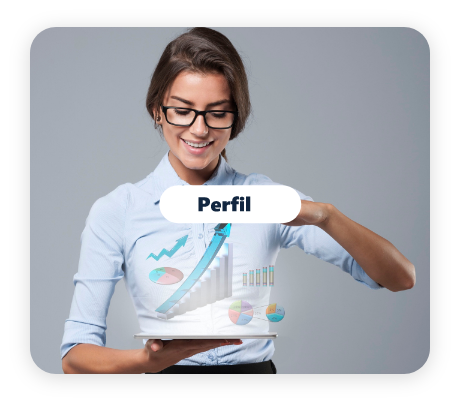
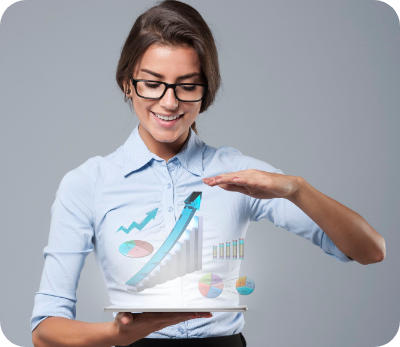
Act_04_07_2025

diff --git a/src/views/Tema3.vue b/src/views/Tema3.vue
@@ -83,7 +83,7 @@
     .row.fondo3.p-4.p-lg-5.p-md-4.mb-0(data-aos="fade-down")
       .col-lg-12
     
-        .row.justify-content-center.align-items-center.mb-4(data-aos="fade-left")
+        .row.justify-content-center.align-items-center.mb-0(data-aos="fade-left")
           .col-lg-3.col-md-5.col-8.mb-4
             img.d-none.d-lg-block(src='@/assets/curso/tema3/5.png', alt='')
           .col-lg-9.mb-0
@@ -104,30 +104,33 @@
                 .col-lg-12
                   p.mb-0 El fracaso no se concibe como un obstáculo definitivo, sino como una fuente de aprendizaje. El emprendedor resiliente analiza sus errores, identifica oportunidades de mejora y desarrolla estrategias de ajuste para futuros intentos, asumiendo una actitud proactiva frente a los desafíos.
 
-    .row.justify-content-center.align-items-center.fondo4.p-4.p-lg-5.p-md-4.mb-0(data-aos="fade-down")
-      .col-lg-10
-
-        .row.justify-content-center.align-items-center.mb-0
-          .col-lg-12
-            .row.justify-content-center.align-items-center
-              .col-lg-5
-                .tarjeta.tarjeta-flip.color-primario
-                  .tarjeta-flip__contenedor.hei
-                    .tarjeta-flip__img(:style="{'background-image': `url(${require('@/assets/curso/tema3/6.png')})`}")
-                    .tarjeta-flip__contenido.p-5
-                      h3.bg4.p-0.mb-0.ps-3.pe-3.text-white.text-center.my-5 Un perfil 
-                      h3.bg4.p-0.mb-4.ps-3.pe-3.text-white.text-center en constante evolución
-                      p.mb-5.my-5.text-center  El perfil del emprendedor no es estático; evoluciona de manera permanente a partir de sus experiencias y aprendizajes.
-              .col-lg-5
-                .tarjeta.tarjeta-flip.color-primario
-                  .tarjeta-flip__contenedor.hei
-                    .tarjeta-flip__img(:style="{'background-image': `url(${require('@/assets/curso/tema3/7.png')})`}")
-                    .tarjeta-flip__contenido.p-5
-                      h3.bg4.p-0.mb-0.ps-3.pe-3.text-white.text-center.my-5 Un perfil 
-                      h3.bg4.p-0.mb-4.ps-3.pe-3.text-white.text-center en constante evolución
-                      p.mb-5.my-5.text-center El emprendedor no es un individuo excepcional desde su origen, sino una persona común que, a través del trabajo constante, la dedicación y la determinación, convierte una oportunidad identificada en un proyecto empresarial exitoso.
-
-
+        .row.justify-content-center.align-items-center.fondo4.p-4.p-lg-5.p-md-4.mb-0(data-aos="fade-down")
+          .col-lg-10
+    
+            .row.justify-content-center.align-items-center.mb-0
+              .col-lg-12
+                .row.justify-content-center.align-items-center.mb-0
+                  .col-lg-5.col-md-6.mb-lg-0.mb-4.mb-md-0
+                    .tarjeta.tarjeta-flip.color-primario(@mouseover="indicadorTarjetaFlip = false")
+                      .indicador--hover(v-if="indicadorTarjetaFlip")
+                      .tarjeta-flip__contenedor
+                        .tarjeta-flip__img(:style="{'background-image': `url(${require('@/assets/curso/tema3/6.png')})`}")
+                          h5.py-5.mt-5.text-center #[.bgw.p-2.my-5.ps-5.pe-5 Perfil] 
+                        .tarjeta-flip__contenido.p-lg-5.p-md-3.p-4
+                          h3.bg4.p-0.mb-0.ps-3.pe-3.text-white.text-center.my-5 Un perfil 
+                          h3.bg4.p-0.mb-4.ps-3.pe-3.text-white.text-center en constante evolución
+                          p.mb-5.my-5.text-center El perfil del emprendedor no es estático; evoluciona de manera permanente a partir de sus experiencias y aprendizajes.
+                  .col-lg-5.col-md-6
+                    .tarjeta.tarjeta-flip.color-primario(@mouseover="indicadorTarjetaFlip = false")
+                      .indicador--hover(v-if="indicadorTarjetaFlip")
+                      .tarjeta-flip__contenedor
+                        .tarjeta-flip__img(:style="{'background-image': `url(${require('@/assets/curso/tema3/7.png')})`}")
+                          h5.py-5.mt-5.text-center #[.bgw.p-2.my-5.ps-5.pe-5 Perfil] 
+                        .tarjeta-flip__contenido.p-lg-5.p-md-3.p-4
+                          h3.bg4.p-0.mb-0.ps-3.pe-3.text-white.text-center.my-5 Un perfil 
+                          h3.bg4.p-0.mb-4.ps-3.pe-3.text-white.text-center en constante evolución
+                          p.mb-0.my-4.text-center El emprendedor no es un individuo excepcional desde su origen, sino una persona común que, a través del trabajo constante, la dedicación y la determinación, convierte una oportunidad identificada en un proyecto empresarial exitoso.
+    
     .titulo.mb-lg-5.mb-md-5.mb-5.ps-2.pe-2.pe-lg-2.ps-lg-5.pe-md-0.ps-md-5(data-aos="fade-right")
       img(src='@/assets/curso/tema1/5.svg', alt='Imagen decorativa')
       h3.mb-0.mx-4.text-white Motivaciones para emprender

diff --git a/src/styles/_custom.sass b/src/styles/_custom.sass
@@ -301,7 +301,7 @@ figcaption
 
 .fondo3
   background: url('../assets/curso/tema3/fondo3.png')
-  background-size: 100%
+  background-size: 100% 60%
   background-repeat: no-repeat
   background-position: center 
   margin-inline: -3.4rem
@@ -324,15 +324,16 @@ figcaption
   width: fit-content
   margin: auto
 
-.hei
-  width: auto
-  height: 385px
 
-.tarjeta-flip.color-primario .tarjeta-flip__img 
-    background-color: white !important
+.bgw
+  background-color: white
+  border-radius: 50px
+  width: fit-content
+  margin: auto
 .tarjeta-flip.color-primario .tarjeta-flip__contenido 
-    background-color: white !important
-    color: black
+    background-color: #F6F6F6 !important
+
+
 
 .bg5
   background-color: #FFF2E1
